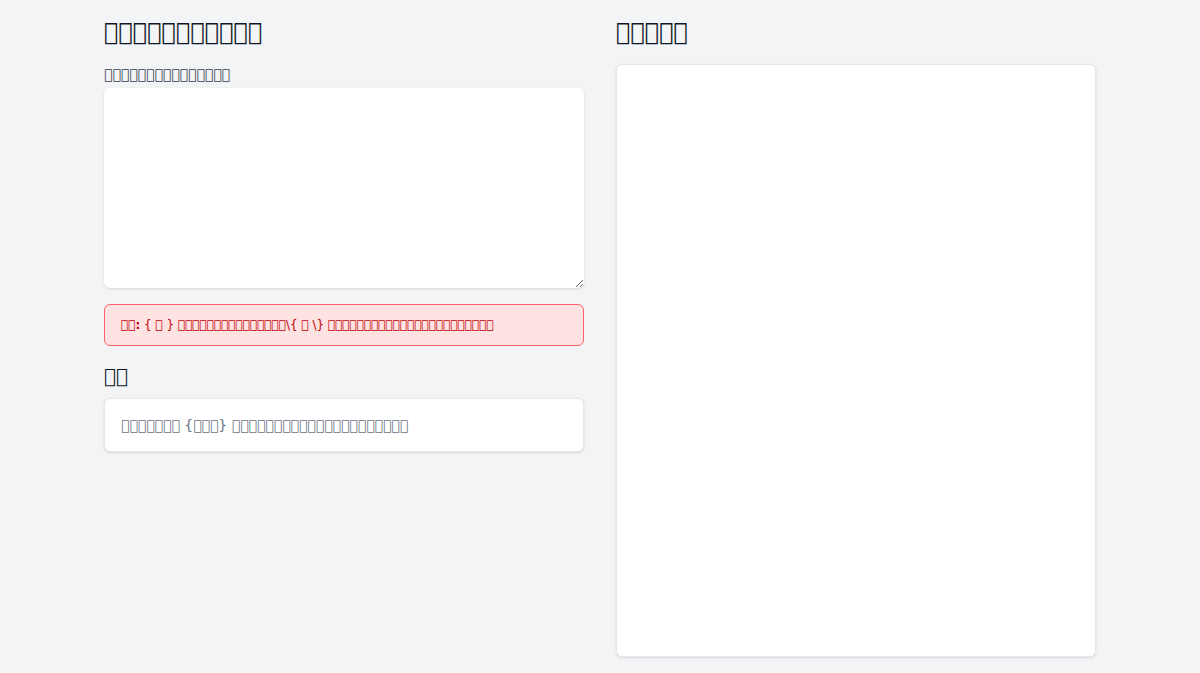
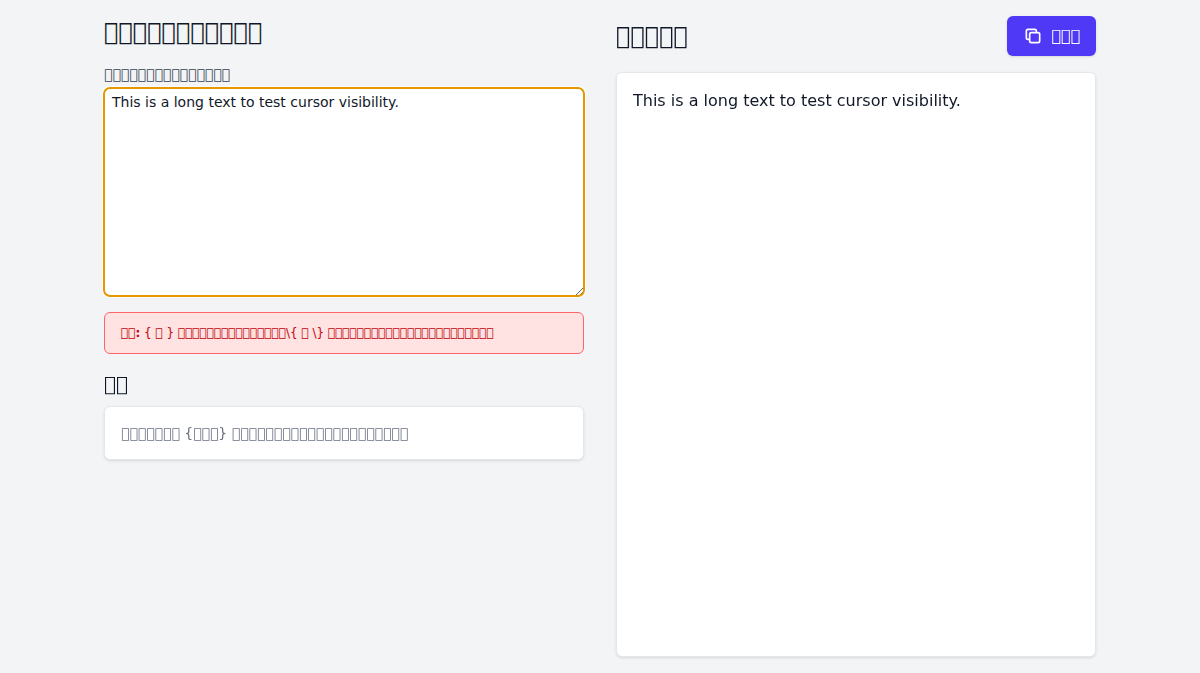
Fix: Add padding to textarea to improve cursor visibility
The cursor was difficult to see when positioned at the beginning of the text in the prompt template textarea. This was because there was no padding, causing the cursor to be flush against the border.

This commit adds horizontal and vertical padding to the textarea element, creating a visual buffer that makes the cursor's position clear.

diff --git a/index.html b/index.html
@@ -16,7 +16,7 @@
       <!-- Prompt Input -->
       <div>
         <label for="prompt-template" class="block text-sm font-medium text-gray-700 dark:text-gray-300">テンプレートを入力してください</label>
-        <textarea id="prompt-template" rows="10" class="mt-1 block w-full rounded-md border-gray-300 dark:border-gray-600 shadow-sm focus:border-indigo-500 focus:ring-indigo-500 sm:text-sm bg-white dark:bg-gray-800"></textarea>
+        <textarea id="prompt-template" rows="10" class="mt-1 block w-full rounded-md border-gray-300 dark:border-gray-600 shadow-sm focus:border-indigo-500 focus:ring-indigo-500 sm:text-sm bg-white dark:bg-gray-800 px-2 py-1"></textarea>
       </div>
 
       <!-- Escape Notice -->

diff --git a/app.spec.js b/app.spec.js
@@ -8,6 +8,11 @@ test('Electron app screenshot', async () => {
   // Get the first window
   const window = await electronApp.firstWindow();
 
+  // Fill the textarea and move cursor to the beginning
+  const promptTemplate = await window.locator('#prompt-template');
+  await promptTemplate.fill('This is a long text to test cursor visibility.');
+  await promptTemplate.press('Home');
+
   // Take screenshot
   await window.screenshot({ path: 'screenshot.png' });
 

diff --git a/output.css b/output.css
@@ -317,8 +317,14 @@
   .p-4 {
     padding: calc(var(--spacing) * 4);
   }
+  .px-2 {
+    padding-inline: calc(var(--spacing) * 2);
+  }
   .px-4 {
     padding-inline: calc(var(--spacing) * 4);
+  }
+  .py-1 {
+    padding-block: calc(var(--spacing) * 1);
   }
   .py-2 {
     padding-block: calc(var(--spacing) * 2);
